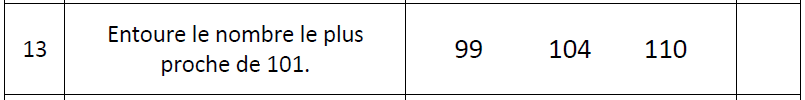
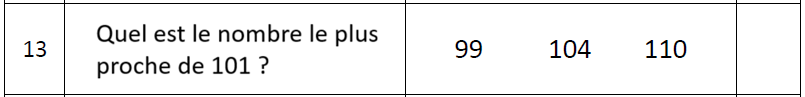
votre modification

diff --git a/src/App.jsx b/src/App.jsx
@@ -1,6 +1,6 @@
 import React, { useEffect, useMemo, useRef, useState } from "react";
 
-const QUIZ_DURATION_SECONDS = 9 * 60;
+const QUIZ_DURATION_SECONDS = 10 * 60;
 const SHEET_WEBHOOK_URL = "https://script.google.com/macros/s/AKfycbw7PSm4sB4nj-u6N6pAz_JeCBNdyLyWC4CTTKpL5scKP0_UrQmqrMwjHA0D_Gyrbqa5/exec";
 
 function driveImage(fileId) {
@@ -263,6 +263,9 @@ export default function App() {
   const hasFinishedRef = useRef(false);
   const [sendSuccess, setSendSuccess] = useState(true);
 
+  const [endTime, setEndTime] = useState(null);
+
+
 useEffect(() => {
   if (step !== "quiz" || isFinishing) return;
 
@@ -273,6 +276,7 @@ useEffect(() => {
   return () => clearInterval(interval);
 }, [step, isFinishing]);
 
+
 useEffect(() => {
   if (step === "quiz" && timeLeft === 0 && !isFinishing) {
     handleFinish(true, lockedAnswers);
@@ -280,25 +284,30 @@ useEffect(() => {
 }, [timeLeft, step, isFinishing]);
 
 
+
 useEffect(() => {
-  if (step !== "quiz" || isFinishing) return;
+  if (step !== "quiz" || isFinishing || !endTime) return;
 
-  if (timeLeft <= 0) {
-    handleFinish(true, lockedAnswers);
-    return;
-  }
+  const updateTimer = () => {
+    const secondsRemaining = Math.max(
+      0,
+      Math.ceil((endTime - Date.now()) / 1000)
+    );
 
-  const interval = setInterval(() => {
-    setTimeLeft((prev) => {
-      if (prev <= 1) {
-        return 0;
-      }
-      return prev - 1;
-    });
-  }, 1000);
+    setTimeLeft(secondsRemaining);
+
+    if (secondsRemaining === 0) {
+      handleFinish(true, lockedAnswers);
+    }
+  };
+
+  updateTimer(); // mise à jour immédiate
+
+  const interval = setInterval(updateTimer, 250);
 
   return () => clearInterval(interval);
-}, [step, timeLeft, isFinishing, lockedAnswers]);
+}, [step, endTime, isFinishing, lockedAnswers]);
+
 
   const currentQuestion = questions[currentIndex];
   const currentQuestionId = currentQuestion?.id;
@@ -334,6 +343,7 @@ function startQuiz() {
   setCurrentIndex(0);
   setTimeLeft(QUIZ_DURATION_SECONDS);
   setSubmittedAt(null);
+  setEndTime(Date.now() + QUIZ_DURATION_SECONDS * 1000);
   setStep("quiz");
 }
 
@@ -633,7 +643,7 @@ function resetAll() {
       <ul style={{ listStyleType: "none", paddingLeft: 0 }}>
         <li>20 questions pour les CE1 et CE2.</li>
         <li>30 questions pour les CM1 et CM2.</li>
-        <li>Temps maximum autorisé : 9 minutes.</li>
+        <li>Temps maximum autorisé : 10 minutes.</li>
         <li>Pour les fractions, utilisez la barre "/" comme par exemple 1/2.</li>
         <li> </li>
         <li>Vous pouvez passer une question et y revenir plus tard.</li>
